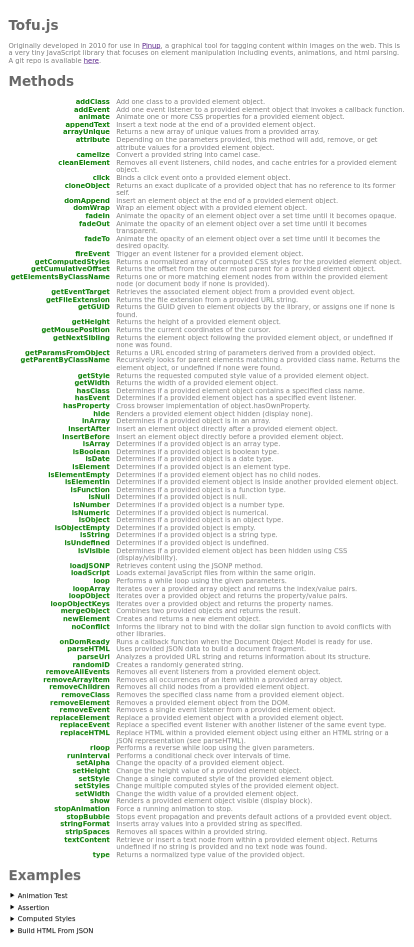
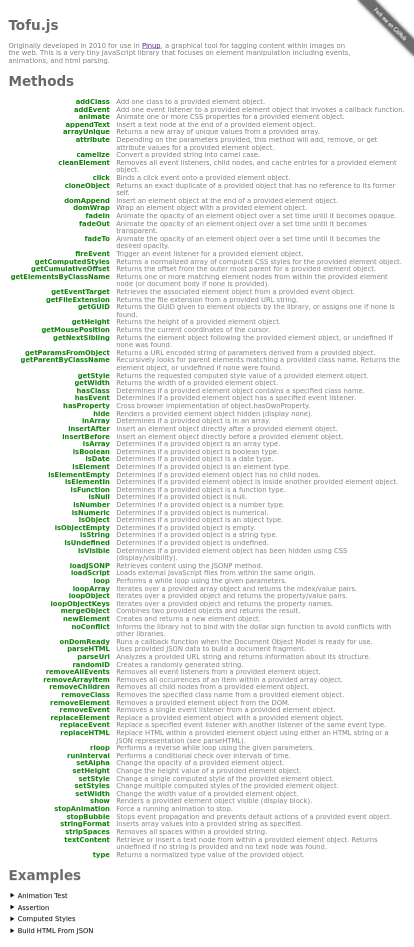
Add fork me ribbon

diff --git a/example/index.html b/example/index.html
@@ -5,12 +5,14 @@
 	<script src="../tofu.min.js"></script>
 	<script src="components.js"></script>
 </head><body>
-	
+
 	<noscript>Requires JavaScript to run properly.</noscript>
-	
-	<h1>Tofu.js</h1>
-	<p>Originally developed in 2010 for use in <a href="https://github.com/jabes/pinup">Pinup</a>, a graphical tool for tagging content within images on the web. This is a very tiny JavaScript library that focuses on element manipulation including events, animations, and html parsing. A git repo is available <a href="https://github.com/jabes/tofu">here</a>.</p>
-	
+
+	<div style="padding-right:120px">
+        <h1>Tofu.js</h1>
+        <p>Originally developed in 2010 for use in <a href="https://github.com/jabes/pinup">Pinup</a>, a graphical tool for tagging content within images on the web. This is a very tiny JavaScript library that focuses on element manipulation including events, animations, and html parsing.</p>
+    </div>
+
 	<h1>Methods</h1>
 	<ul class="method-table">
 		<li class="flex"><strong class="flex-none">addClass</strong><span class="flex-auto">Add one class to a provided element object.</span></li>
@@ -103,13 +105,13 @@
 	</ul>
 
 	<h1>Examples</h1>
-	
+
 	<details>
 		<summary>Animation Test</summary>
 		<p>Click the red box!</p>
 		<div id="animationTest"></div>
 	</details>
-	
+
 	<details>
 		<summary>Assertion</summary>
 		<div>
@@ -127,15 +129,17 @@
 			<h5>Tofu.isNumeric</h5><ol id="unitTest12"></ol>
 		</div>
 	</details>
-	
+
 	<details>
 		<summary>Computed Styles</summary>
 		<div id="computedStyles"></div>
 	</details>
-	
+
 	<details>
 		<summary>Build HTML From JSON</summary>
 		<div id="parseHTML"></div>
 	</details>
+
+	<a href="https://github.com/jabes/tofu"><img style="position: absolute; top: 0; right: 0; border: 0;" src="https://camo.githubusercontent.com/a6677b08c955af8400f44c6298f40e7d19cc5b2d/68747470733a2f2f73332e616d617a6f6e6177732e636f6d2f6769746875622f726962626f6e732f666f726b6d655f72696768745f677261795f3664366436642e706e67" alt="Fork me on GitHub" data-canonical-src="https://s3.amazonaws.com/github/ribbons/forkme_right_gray_6d6d6d.png"></a>
 
 </body></html>
